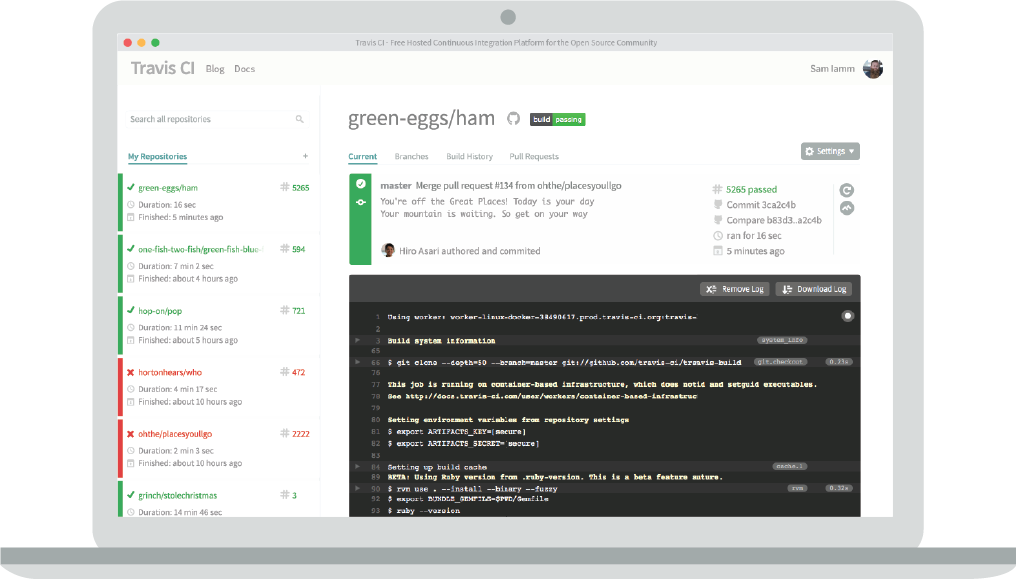
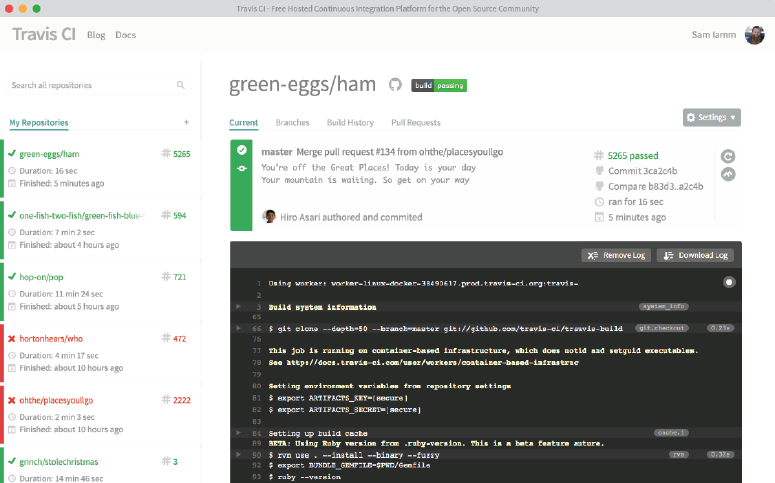
some layout and responsive changes to the hero section do to the fact it looked uglier than planned and responsive is hard

diff --git a/app/styles/app/landing.sass b/app/styles/app/landing.sass
@@ -61,9 +61,22 @@
     p
       line-height: 1.5em
 
+  .hero.z-1
+    text-align: center
+    position: relative
+    z-index: 1
+
+
   .landing-centered-wrapper
     max-width: 1024px
     margin: 0 auto
+
+  #laptop
+    margin-bottom: -192px
+
+  #laptop img
+    border: 2px solid #d8dadc
+    border-radius: 2px
 
   .laptop-wrapper-mobile
     display: none
@@ -73,12 +86,11 @@
     h1
       color: #339999
       line-height: 1.2em
-      margin-bottom: 0.3em
+      margin-bottom: 0
 
     p
       margin: 0
       line-height: 1.5em
-      max-width: 380px
 
     br.mobile-break
       display: none
@@ -89,7 +101,7 @@
       font-size: 2em
       font-weight: 300
       padding: 0.5em
-      margin-top: 1.3em
+      margin: 1.3em 0 1.3em 0
       border-radius: 4px
       border: 0
 
@@ -100,7 +112,10 @@
       padding-right: 10px
 
   .oss-testing
+    background-color: #ffffff
     text-align: center
+    position: relative
+    z-index: 1000
 
     h2
       margin: 0
@@ -202,8 +217,11 @@
     br.mobile-break
       display: none
 
+    .features-callouts
+      text-align: center
+
     .features-checked
-      padding-left: 30px;
+      padding-left: 30px
 
     ul
       list-style-image: url('../images/landing-page/features-check.svg')
@@ -212,8 +230,8 @@
     li
       font-color: #606162
       font-size: 1.7em
+      line-height: 1.7em
       font-weight: 300
-      margin-bottom: 0.55em
 
   .build-flows
     text-align: center
